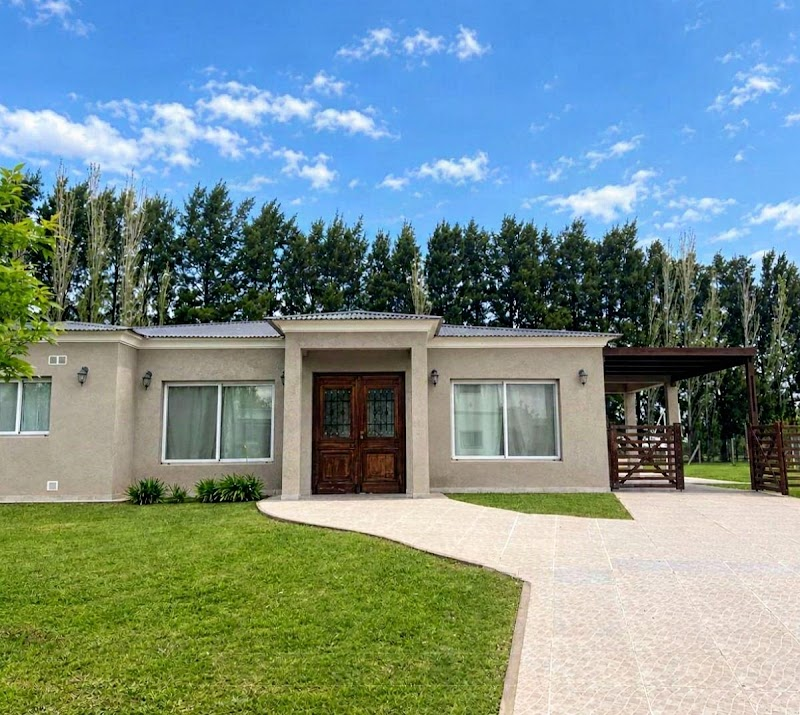
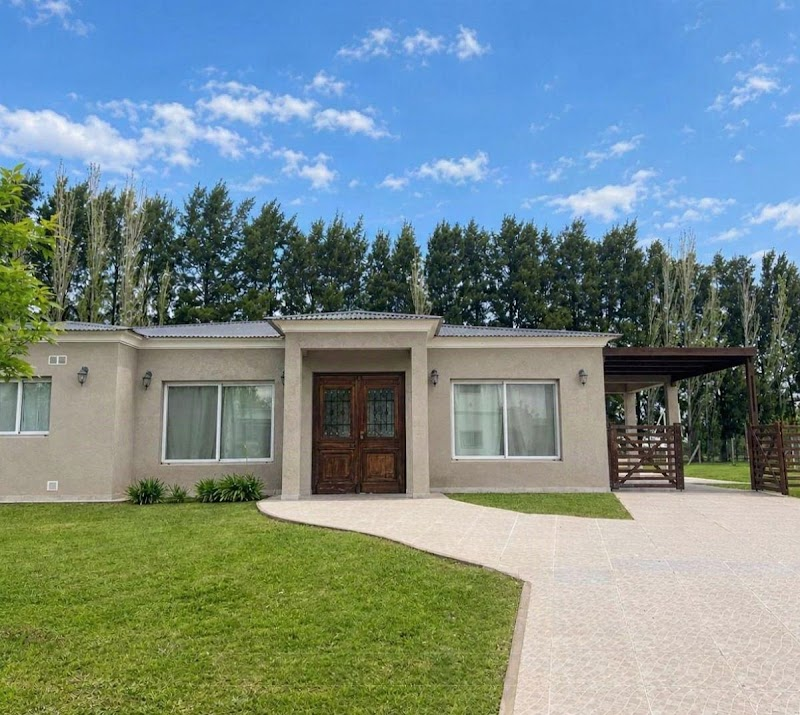
Ficha 64babe: Casa en alquiler en Santa Inés, Canning

diff --git a/64babe/index.html b/64babe/index.html
@@ -93,7 +93,7 @@
   </div>
 
 <script>
-const D = {"ficha":{"slug":"casa-alquiler-santa-ines-64babe","titulo":"Casa en alquiler en Santa Inés, Canning","tipo":"Casa","operacion":"Alquiler","precio":{"moneda":"USD","monto":1300},"expensas":{"moneda":"ARS","monto":600000},"ubicacion":{"barrio":"Santa Inés","zona":"Canning, Esteban Echeverría","lat":-34.912,"lng":-58.493},"descripcion":"Desarrollada en una sola planta con un total de 160 m².\nDispone de un living-comedor integrado, cocina moderna equipada con barra desayunadora y lavadero independiente.\nTres dormitorios, uno de ellos en suite, dos baños completos y toilette.\nEn el exterior, un galería con parrilla, jardín con sistema de riego y piscina.\nCochera para dos autos.\nCalefacción: por tiro balanceado.\nRefrigeración: split\nAberturas: Aluminio\nSobre el barrio:\nEl Barrio Privado Santa Inés se encuentra a solo 5' del centro de Canning. Cuenta en su frente con supermercado, verduleria, carnicería, y otros comercios.\nAmenities: Área deportiva con canchas de tenis, fútbol y un SUM. Alumbrado público y seguridad, cordón cuneta, alambrado perimetral, control de acceso, calles asfaltadas.\nRedes subterráneas de agua, cloacas, gas, electricidad.","detalles":[["Sup. Total","210 m²"],["Sup. Cubierta","160 m²"],["Tipo","Casa"],["Ambientes","5"],["Dormitorios","3"],["Baños","2"],["Toilettes","1"],["Cocheras","2"],["Plantas","1"]],"servicios":["Agua corriente","Cloacas","Gas natural","Electricidad"],"comodidades":["Parrilla","Jardín","Sistema de riego","Piscina","Canchas de tenis","Canchas de fútbol","SUM","Alumbrado público","Seguridad","Cordón cuneta","Alambrado perimetral","Control de acceso","Calles asfaltadas"],"fotos":[{"id":"1dL0VFZ-0mYgfX_-PxE6Z3oYvoFdWKqWh"},{"id":"1McG5fDcj0Ll7jDddHIWaUVK3QkfZb5s1"},{"id":"1IZcFGIhh8yQDIJAuV9kXnzDlVpKtTmQx"},{"id":"1LBqwObDCTgivxKrqbgfLqBv2O1IrVbDx"},{"id":"1T3AmWQ1xCQD0WoATY5MaimwaP6RvrgSM"},{"id":"1H3ylIt0BhvfvrHO5bk2Y6-Rv-eBRYGm6"},{"id":"1awoq-BLiUJVcO2ro-WJMk0IY0WLVd5Ox"},{"id":"1haj6U8nUFhofR-iiw9WEvDK11pGT375y"},{"id":"1uY3PimSeVMl123sR-LoTsfYO45h0wqCP"},{"id":"1pDE_h5ethMJ7r83crz4c6HIC7dNZtO7O"}],"planos":[],"actualizado":"2026-10-23T20:23:07.367Z"},"avisoLegal":"Toda la información suministrada en forma de imágenes y/o escrita carece de valor contractual y deberá ser corroborada por el interesado."};
+const D = {"ficha":{"slug":"casa-alquiler-santa-ines-64babe","titulo":"Casa en alquiler en Santa Inés, Canning","tipo":"Casa","operacion":"Alquiler","precio":{"moneda":"USD","monto":1300},"expensas":{"moneda":"ARS","monto":600000},"ubicacion":{"barrio":"Santa Inés","zona":"Canning, Esteban Echeverría","lat":-34.912,"lng":-58.493},"descripcion":"Propiedad desarrollada en una sola planta con un total de 160 m².\nDispone de un living-comedor integrado, cocina moderna equipada con barra desayunadora y lavadero independiente.\nTres dormitorios, uno de ellos en suite, dos baños completos y toilette.\nEn el exterior, un galería con parrilla, jardín con sistema de riego y piscina.\nCochera para dos autos.\nCalefacción: por tiro balanceado.\nRefrigeración: split\nAberturas: Aluminio\nSobre el barrio:\nEl Barrio Privado Santa Inés se encuentra a solo 5' del centro de Canning. Cuenta en su frente con supermercado, verduleria, carnicería, y otros comercios.\nAmenities: Área deportiva con canchas de tenis, fútbol y un SUM. Alumbrado público y seguridad, cordón cuneta, alambrado perimetral, control de acceso, calles asfaltadas.\nRedes subterráneas de agua, cloacas, gas, electricidad.","detalles":[["Sup. Total","210 m²"],["Sup. Cubierta","160 m²"],["Tipo","Casa"],["Ambientes","5"],["Dormitorios","3"],["Baños","2"],["Toilettes","1"],["Cocheras","2"],["Plantas","1"]],"servicios":["Agua corriente","Cloacas","Gas natural","Electricidad"],"comodidades":["Parrilla","Jardín","Sistema de riego","Piscina","Canchas de tenis","Canchas de fútbol","SUM","Alumbrado público","Seguridad","Cordón cuneta","Alambrado perimetral","Control de acceso","Calles asfaltadas"],"fotos":[{"id":"1a0KSm9-dG6Y3zbC8v8KFp53_SZ4Q_Zhw"},{"id":"1TrsGhrilBHuvhBQ9bGqGFf937UO-cUyN"},{"id":"1LeeBoz7a0PYqtZD6g1gHQPttAgnLbGX0"},{"id":"13NZ0mlmO9BGtJvhgPKzHS9ayu0FAyaB7"},{"id":"1gqFOKFBaSk8MCSmrX70brXSGXqsfeMN8"},{"id":"1B7TxUo5PJTkXMPEoYAbQMQAaLgntEybB"},{"id":"1KLeVHVyhuDOTutrxTGEZD8ShjLbRuhh6"},{"id":"1JNt-U1SEw_yHw2cjh3qgWxeYVdptoW6e"},{"id":"1n3m1CKNrXTAqOEGIEznnpkFylUdVinzJ"},{"id":"1XC9wVaEuo1wUrb8eXZXQeU6fjm3I8BZa"}],"planos":[],"actualizado":"2026-10-23T20:26:03.361Z"},"avisoLegal":"Toda la información suministrada en forma de imágenes y/o escrita carece de valor contractual y deberá ser corroborada por el interesado."};
 const F = D.ficha;
 const esc = s => String(s == null ? '' : s).replace(/[&<>"']/g, c => ({ '&': '&amp;', '<': '&lt;', '>': '&gt;', '"': '&quot;', "'": '&#39;' }[c]));
 const miles = n => String(Math.round(n)).replace(/\B(?=(\d{3})+(?!\d))/g, '.');
